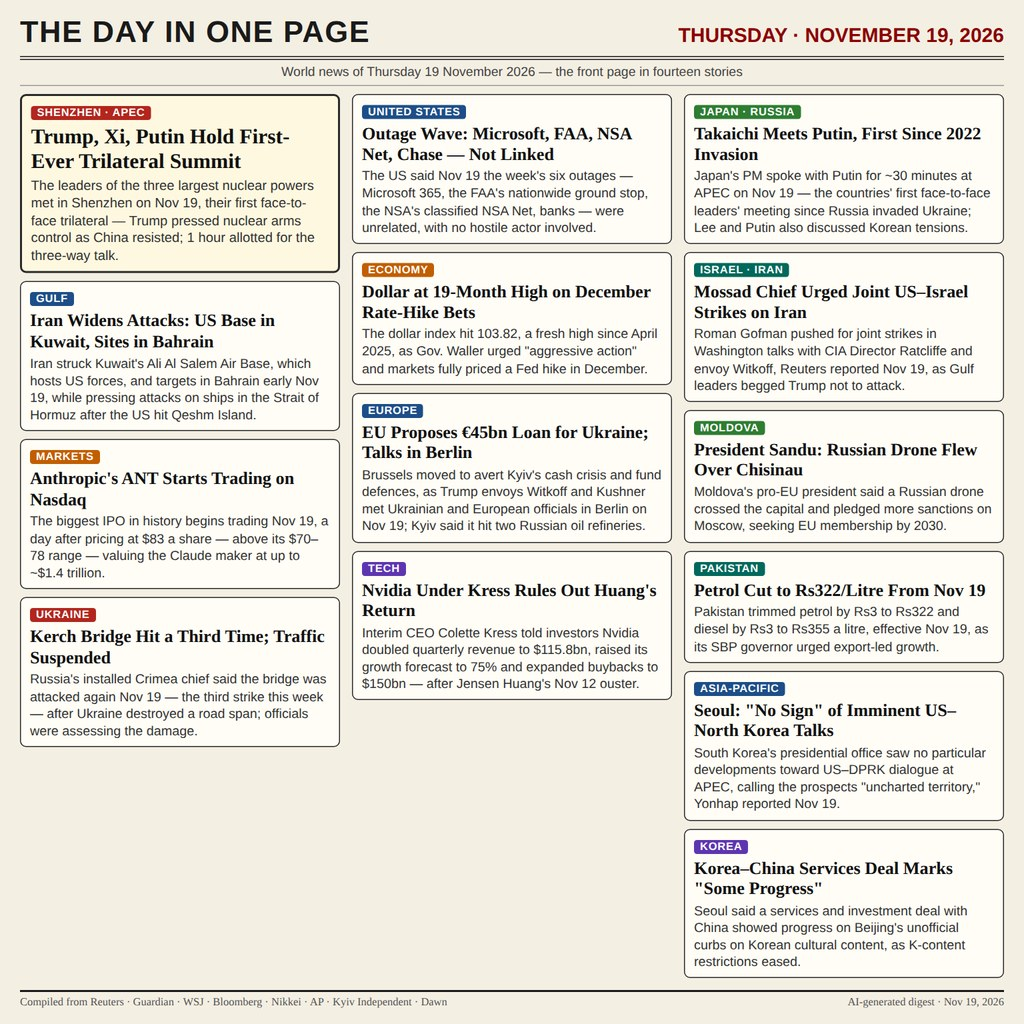
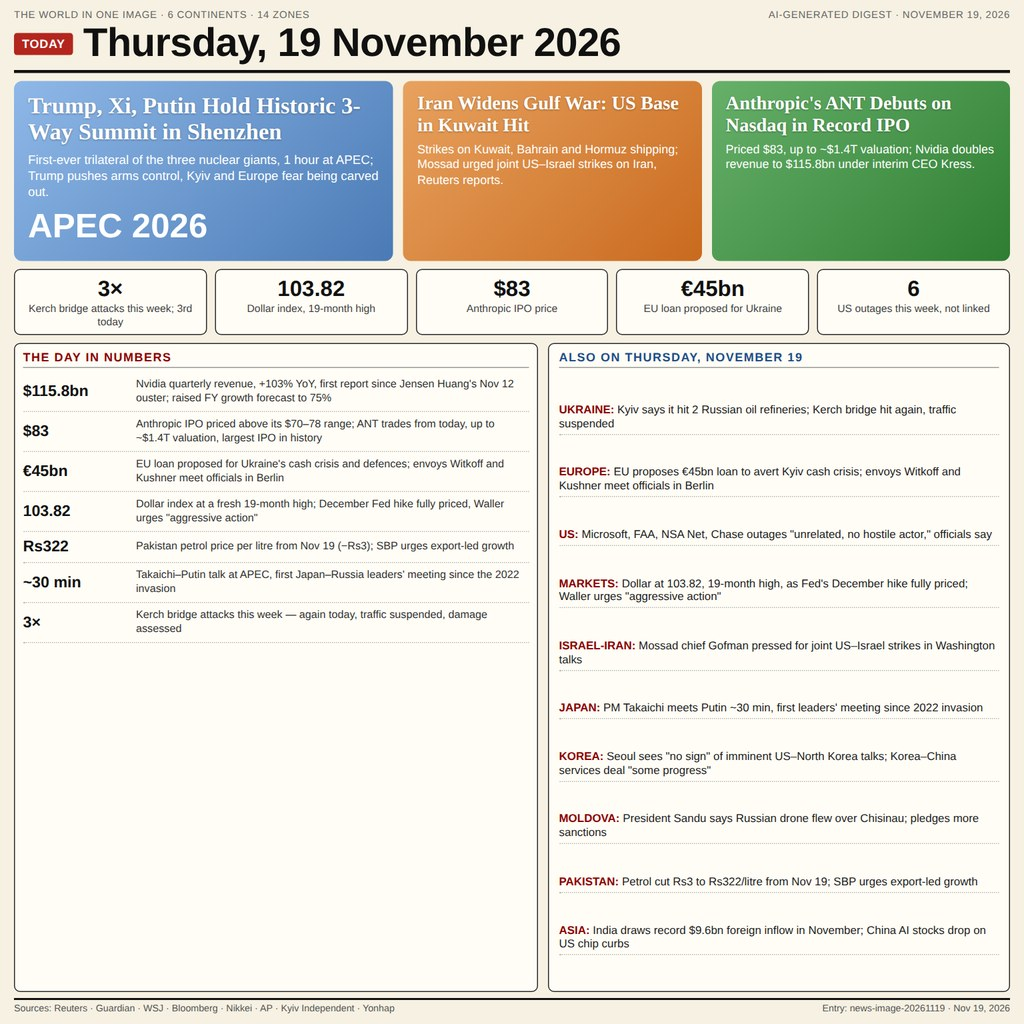
v2: infographic front page with hero cards, stats strip and numbers panel

diff --git a/entry_v2.html b/entry_v2.html
@@ -1,0 +1,108 @@
+<!DOCTYPE html>
+<html lang="en">
+<head>
+<meta charset="utf-8">
+<style>
+  * { margin:0; padding:0; box-sizing:border-box; }
+  body { width:1024px; height:1024px; background:#f6f1e2; font-family: Georgia, serif; }
+  .page { width:1024px; height:1024px; padding:10px 14px; display:flex; flex-direction:column; }
+  .top { display:flex; justify-content:space-between; align-items:center; }
+  .tags { font-size:10px; color:#666; letter-spacing:.5px; font-family:Arial, sans-serif; }
+  .date { font-size:40px; font-weight:900; color:#111; font-family:'Arial Black', Arial, sans-serif; letter-spacing:-.5px; }
+  .datebar { display:flex; align-items:center; gap:10px; border-bottom:3px solid #111; padding-bottom:4px; }
+  .datebar .flag { background:#b3261e; color:#fff; font-family:Arial, sans-serif; font-weight:bold; font-size:12px; padding:4px 8px; border-radius:3px; letter-spacing:.5px; }
+  .hero { display:flex; gap:10px; margin-top:8px; height:180px; }
+  .hero .big { flex:1.3; background:linear-gradient(135deg,#8fb8e8,#4a7ab5); border-radius:8px; padding:12px 14px; color:#fff; position:relative; }
+  .hero .big h2 { font-size:23px; line-height:1.15; text-shadow:0 1px 2px rgba(0,0,0,.3); }
+  .hero .big p { font-size:12.5px; margin-top:6px; line-height:1.3; font-family:Arial, sans-serif; }
+  .hero .big .num { font-size:34px; font-weight:900; margin-top:6px; font-family:Arial, sans-serif; }
+  .hero .m1 { flex:1; background:linear-gradient(135deg,#e8a25f,#c96a1e); border-radius:8px; padding:12px 14px; color:#fff; }
+  .hero .m1 h2 { font-size:19px; line-height:1.15; text-shadow:0 1px 2px rgba(0,0,0,.3); }
+  .hero .m1 p { font-size:12px; margin-top:5px; line-height:1.3; font-family:Arial, sans-serif; }
+  .hero .m2 { flex:1; background:linear-gradient(135deg,#67b06a,#2e7d32); border-radius:8px; padding:12px 14px; color:#fff; }
+  .hero .m2 h2 { font-size:19px; line-height:1.15; text-shadow:0 1px 2px rgba(0,0,0,.3); }
+  .hero .m2 p { font-size:12px; margin-top:5px; line-height:1.3; font-family:Arial, sans-serif; }
+  .strip { display:flex; gap:8px; margin-top:8px; }
+  .stat { flex:1; background:#fffdf6; border:1.5px solid #2a2a2a; border-radius:6px; text-align:center; padding:6px 4px; }
+  .stat .v { font-size:22px; font-weight:900; color:#111; font-family:Arial, sans-serif; }
+  .stat .l { font-size:10.5px; color:#444; font-family:Arial, sans-serif; margin-top:1px; line-height:1.2; }
+  .lower { display:flex; gap:10px; margin-top:8px; flex:1; }
+  .mapcol { flex:1.15; background:#fffdf6; border:1.5px solid #2a2a2a; border-radius:6px; padding:6px 8px; display:flex; flex-direction:column; }
+  .mapcol h4 { font-size:12px; text-transform:uppercase; letter-spacing:1px; color:#8b0000; border-bottom:1px solid #999; padding-bottom:3px; margin-bottom:4px; font-family:Arial, sans-serif; }
+  .numrow { display:flex; align-items:center; gap:8px; border-bottom:1px dotted #bbb; padding:6px 0; }
+  .nv { font-size:15.5px; font-weight:900; color:#111; font-family:Arial, sans-serif; white-space:nowrap; min-width:105px; }
+  .nl { font-size:10.8px; color:#333; line-height:1.25; font-family:Arial, sans-serif; }
+  .listcol { flex:1; background:#fffdf6; border:1.5px solid #2a2a2a; border-radius:6px; padding:6px 10px; display:flex; flex-direction:column; }
+  .listcol h4 { font-size:12px; text-transform:uppercase; letter-spacing:1px; color:#1d4e89; border-bottom:1px solid #999; padding-bottom:3px; margin-bottom:4px; font-family:Arial, sans-serif; }
+  .listcol ul { list-style:none; flex:1; display:flex; flex-direction:column; justify-content:space-evenly; }
+  .listcol li { font-size:11.3px; color:#222; line-height:1.22; border-bottom:1px dotted #bbb; padding:2px 0; font-family:Arial, sans-serif; }
+  .listcol li b { color:#8b0000; }
+  .footer { border-top:2px solid #111; margin-top:6px; padding-top:3px; font-size:9.5px; color:#555; display:flex; justify-content:space-between; font-family:Arial, sans-serif; }
+</style>
+</head>
+<body>
+<div class="page">
+  <div class="top">
+    <div class="tags">THE WORLD IN ONE IMAGE · 6 CONTINENTS · 14 ZONES</div>
+    <div class="tags">AI-GENERATED DIGEST · NOVEMBER 19, 2026</div>
+  </div>
+  <div class="datebar">
+    <span class="flag">TODAY</span>
+    <div class="date">Thursday, 19 November 2026</div>
+  </div>
+  <div class="hero">
+    <div class="big">
+      <h2>Trump, Xi, Putin Hold Historic 3-Way Summit in Shenzhen</h2>
+      <p>First-ever trilateral of the three nuclear giants, 1 hour at APEC; Trump pushes arms control, Kyiv and Europe fear being carved out.</p>
+      <div class="num">APEC 2026</div>
+    </div>
+    <div class="m1">
+      <h2>Iran Widens Gulf War: US Base in Kuwait Hit</h2>
+      <p>Strikes on Kuwait, Bahrain and Hormuz shipping; Mossad urged joint US–Israel strikes on Iran, Reuters reports.</p>
+    </div>
+    <div class="m2">
+      <h2>Anthropic's ANT Debuts on Nasdaq in Record IPO</h2>
+      <p>Priced $83, up to ~$1.4T valuation; Nvidia doubles revenue to $115.8bn under interim CEO Kress.</p>
+    </div>
+  </div>
+  <div class="strip">
+    <div class="stat"><div class="v">3×</div><div class="l"> Kerch bridge attacks this week; 3rd today</div></div>
+    <div class="stat"><div class="v">103.82</div><div class="l">Dollar index, 19-month high</div></div>
+    <div class="stat"><div class="v">$83</div><div class="l">Anthropic IPO price</div></div>
+    <div class="stat"><div class="v">€45bn</div><div class="l">EU loan proposed for Ukraine</div></div>
+    <div class="stat"><div class="v">6</div><div class="l">US outages this week, not linked</div></div>
+  </div>
+  <div class="lower">
+    <div class="mapcol">
+      <h4>The day in numbers</h4>
+      <div class="numrow"><span class="nv">$115.8bn</span><span class="nl">Nvidia quarterly revenue, +103% YoY, first report since Jensen Huang's Nov 12 ouster; raised FY growth forecast to 75%</span></div>
+      <div class="numrow"><span class="nv">$83</span><span class="nl">Anthropic IPO priced above its $70–78 range; ANT trades from today, up to ~$1.4T valuation, largest IPO in history</span></div>
+      <div class="numrow"><span class="nv">€45bn</span><span class="nl">EU loan proposed for Ukraine's cash crisis and defences; envoys Witkoff and Kushner meet officials in Berlin</span></div>
+      <div class="numrow"><span class="nv">103.82</span><span class="nl">Dollar index at a fresh 19-month high; December Fed hike fully priced, Waller urges "aggressive action"</span></div>
+      <div class="numrow"><span class="nv">Rs322</span><span class="nl">Pakistan petrol price per litre from Nov 19 (−Rs3); SBP urges export-led growth</span></div>
+      <div class="numrow"><span class="nv">~30 min</span><span class="nl">Takaichi–Putin talk at APEC, first Japan–Russia leaders' meeting since the 2022 invasion</span></div>
+      <div class="numrow"><span class="nv">3×</span><span class="nl">Kerch bridge attacks this week — again today, traffic suspended, damage assessed</span></div>
+    </div>
+    <div class="listcol">
+      <h4>Also on Thursday, November 19</h4>
+      <ul>
+        <li><b>UKRAINE:</b> Kyiv says it hit 2 Russian oil refineries; Kerch bridge hit again, traffic suspended</li>
+        <li><b>EUROPE:</b> EU proposes €45bn loan to avert Kyiv cash crisis; envoys Witkoff and Kushner meet officials in Berlin</li>
+        <li><b>US:</b> Microsoft, FAA, NSA Net, Chase outages "unrelated, no hostile actor," officials say</li>
+        <li><b>MARKETS:</b> Dollar at 103.82, 19-month high, as Fed's December hike fully priced; Waller urges "aggressive action"</li>
+        <li><b>ISRAEL-IRAN:</b> Mossad chief Gofman pressed for joint US–Israel strikes in Washington talks</li>
+        <li><b>JAPAN:</b> PM Takaichi meets Putin ~30 min, first leaders' meeting since 2022 invasion</li>
+        <li><b>KOREA:</b> Seoul sees "no sign" of imminent US–North Korea talks; Korea–China services deal "some progress"</li>
+        <li><b>MOLDOVA:</b> President Sandu says Russian drone flew over Chisinau; pledges more sanctions</li>
+        <li><b>PAKISTAN:</b> Petrol cut Rs3 to Rs322/litre from Nov 19; SBP urges export-led growth</li>
+        <li><b>ASIA:</b> India draws record $9.6bn foreign inflow in November; China AI stocks drop on US chip curbs</li>
+      </ul>
+    </div>
+  </div>
+  <div class="footer">
+    <span>Sources: Reuters · Guardian · WSJ · Bloomberg · Nikkei · AP · Kyiv Independent · Yonhap</span>
+    <span>Entry: news-image-20261119 · Nov 19, 2026</span>
+  </div>
+</div>
+</body>
+</html>
